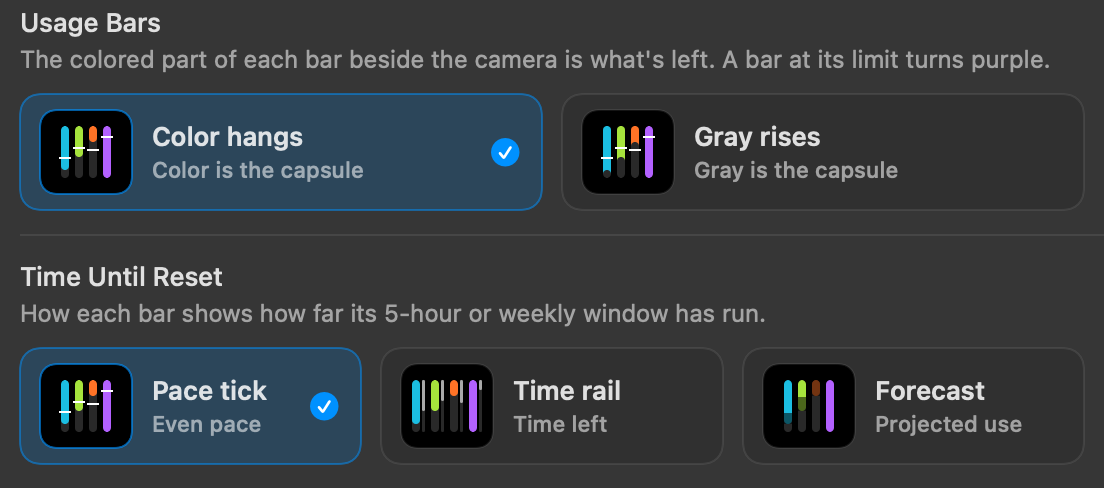
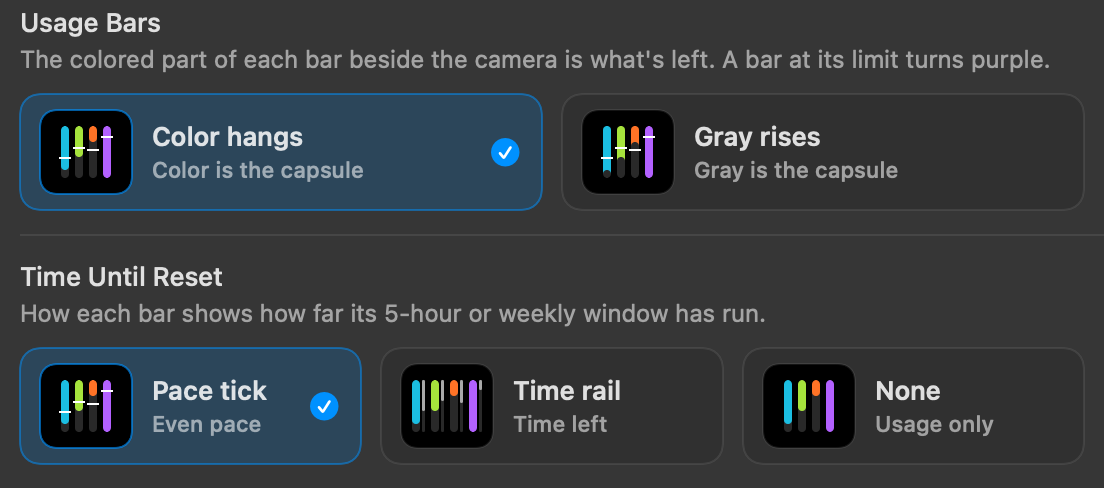
Replace the Forecast reset style with None
Time Until Reset now offers Pace tick, Time rail or None, which shows
usage only. A saved Forecast choice falls back to the pace tick. README
text and screenshots updated.

Changed region(s): [[0.8007, 0.7684, 0.8931, 0.8299], [0.8007, 0.8607, 0.9239, 0.8914], [0.7083, 0.7992, 0.7391, 0.8607]]

diff --git a/Notchly/Views/Island/Battery/UsageBarsGlyph.swift b/Notchly/Views/Island/Battery/UsageBarsGlyph.swift
@@ -28,8 +28,8 @@ enum UsageResetStyle: String, CaseIterable, Identifiable {
     case paceTick
     /// A thin line beside each bar that shrinks as the reset nears.
     case timeRail
-    /// Darkens the color you're on course to use before the reset, at the current rate.
-    case forecast
+    /// No time shown; the bars show usage only.
+    case off
 
     var id: String { rawValue }
 
@@ -37,7 +37,7 @@ enum UsageResetStyle: String, CaseIterable, Identifiable {
         switch self {
         case .paceTick: return "Pace tick"
         case .timeRail: return "Time rail"
-        case .forecast: return "Forecast"
+        case .off: return "None"
         }
     }
 
@@ -45,7 +45,7 @@ enum UsageResetStyle: String, CaseIterable, Identifiable {
         switch self {
         case .paceTick: return "Even pace"
         case .timeRail: return "Time left"
-        case .forecast: return "Projected use"
+        case .off: return "Usage only"
         }
     }
 }
@@ -89,8 +89,6 @@ struct UsageBarsGlyph: View {
     static let tickOverhang: CGFloat = 1
     static let railWidth: CGFloat = 1.5
     static let railGap: CGFloat = 1
-    /// Too early in a window to forecast from: a few minutes' use would fill the bar.
-    static let minimumForecastElapsed = 0.05
 
     static func width(barCount: Int, resetStyle: UsageResetStyle = .paceTick) -> CGFloat {
         guard barCount > 0 else { return 0 }
@@ -146,20 +144,6 @@ struct UsageBarsGlyph: View {
         .frame(width: Self.railWidth, height: height)
     }
 
-    /// The band of color the current rate would use up before the reset.
-    @ViewBuilder
-    private func forecastShadow(_ bar: UsageBar, used: CGFloat) -> some View {
-        if resetStyle == .forecast, let elapsed = bar.elapsed, elapsed >= Self.minimumForecastElapsed {
-            let projected = min(used / CGFloat(elapsed), 1)
-            if projected > used {
-                Color.black.opacity(0.55)
-                    .frame(height: height * (projected - used))
-                    .offset(y: height * (1 - projected))
-                    .frame(maxHeight: .infinity, alignment: .top)
-            }
-        }
-    }
-
     @ViewBuilder
     private func barView(_ bar: UsageBar) -> some View {
         let used = CGFloat(min(max(bar.percent / 100, 0), 1))
@@ -184,7 +168,6 @@ struct UsageBarsGlyph: View {
                     Capsule()
                         .fill(color)
                         .frame(height: colorHeight)
-                    forecastShadow(bar, used: used)
                 }
             case .grayRises:
                 // At least a dot once anything is used, and never covering the last dot of color.
@@ -198,7 +181,6 @@ struct UsageBarsGlyph: View {
                             .fill(Self.dimColor)
                             .frame(height: grayHeight)
                     }
-                    forecastShadow(bar, used: used)
                 }
             }
         }

diff --git a/scripts/readme-glyphs/main.swift b/scripts/readme-glyphs/main.swift
@@ -45,12 +45,11 @@ save(VStack(spacing: 18) {
 }.padding(.vertical, 22).frame(width: 520).background(bg), "closed-notch.png")
 // 1b. Time until reset, one closed notch per style
 save(VStack(spacing: 18) {
-    ForEach(UsageResetStyle.allCases) { style in
+    ForEach([UsageResetStyle.paceTick, .timeRail]) { style in
         VStack(spacing: 6) {
             Closed(b: bars([55, 20, 70, 35], elapsed: [0.3, 0.6, 0.55, 0.5]), muted: false, resetStyle: style)
             Caption(t: style == .paceTick ? "Pace tick (default): color below the line is to spare"
-                : style == .timeRail ? "Time rail: the thin line beside each bar is the time left"
-                : "Forecast: the shaded color is what the current rate uses before the reset")
+                : "Time rail: the thin line beside each bar is the time left")
         }
     }
 }.padding(.vertical, 22).frame(width: 520).background(bg), "usage-reset-styles.png")

diff --git a/README.md b/README.md
@@ -47,16 +47,16 @@ While music plays, the album artwork takes the left wing, spaced like the usage 
 Colors follow how much is used, warming from about halfway. Claude's run cold to hot, from blue through cyan, green, amber and orange to red at 85%. Codex's run green through yellow and orange to red at 75%. Any bar at its limit is solid purple.
 
 <p align="center">
-  <img src="docs/images/usage-reset-styles.png" width="520" alt="The three ways a usage bar shows the time until its limit resets: a white pace tick, a thin time rail beside each bar, and a forecast that shades the color you're on course to use">
+  <img src="docs/images/usage-reset-styles.png" width="520" alt="The two ways a usage bar shows the time until its limit resets: a white pace tick, and a thin time rail beside each bar">
 </p>
 
-Each bar also shows how far its 5-hour or weekly window has run until the limit resets. By default a white pace tick marks where the color would end if you used the limit evenly, so color below the tick is to spare and a bar whose color ends above it is running ahead. A time rail beside each bar shrinks as the reset nears instead, and a forecast shades the color your current rate would use up before the reset.
+Each bar also shows how far its 5-hour or weekly window has run until the limit resets. By default a white pace tick marks where the color would end if you used the limit evenly, so color below the tick is to spare and a bar whose color ends above it is running ahead. A time rail beside each bar shrinks as the reset nears instead, or choose None to show usage only.
 
 <p align="center">
-  <img src="docs/images/usage-bar-styles.png" width="560" alt="Usage bar settings: Color hangs or Gray rises for the bars, and Pace tick, Time rail or Forecast for the time until reset">
+  <img src="docs/images/usage-bar-styles.png" width="560" alt="Usage bar settings: Color hangs or Gray rises for the bars, and Pace tick, Time rail or None for the time until reset">
 </p>
 
-Pick how the bars are drawn in **Settings → AI Usage**: what's left as a colored capsule hanging from the top (the default), or what's used as a gray capsule rising from the bottom, and which of the three reset styles to use. The same page chooses which limits get a bar beside the camera (5-hour, weekly, Fable weekly, Codex 5-hour, Codex weekly); the Usage tab always shows them all.
+Pick how the bars are drawn in **Settings → AI Usage**: what's left as a colored capsule hanging from the top (the default), or what's used as a gray capsule rising from the bottom, and how to show the time until reset (pace tick, time rail, or none). The same page chooses which limits get a bar beside the camera (5-hour, weekly, Fable weekly, Codex 5-hour, Codex weekly); the Usage tab always shows them all.
 
 ## Opened notch
 
